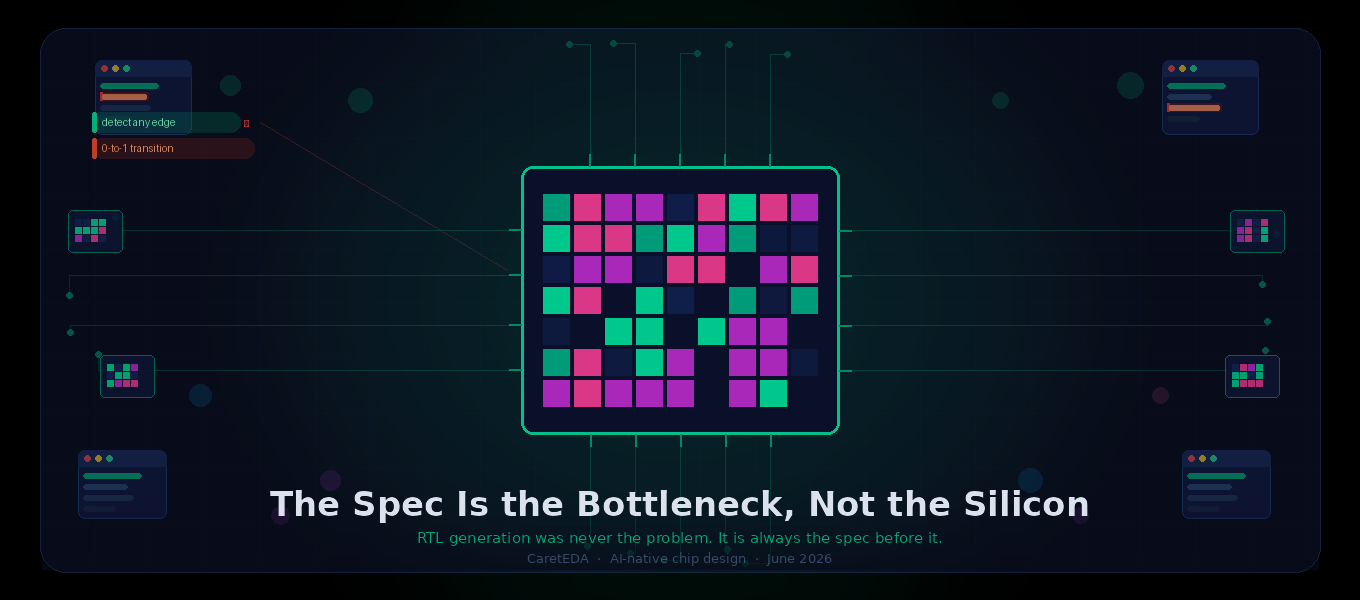
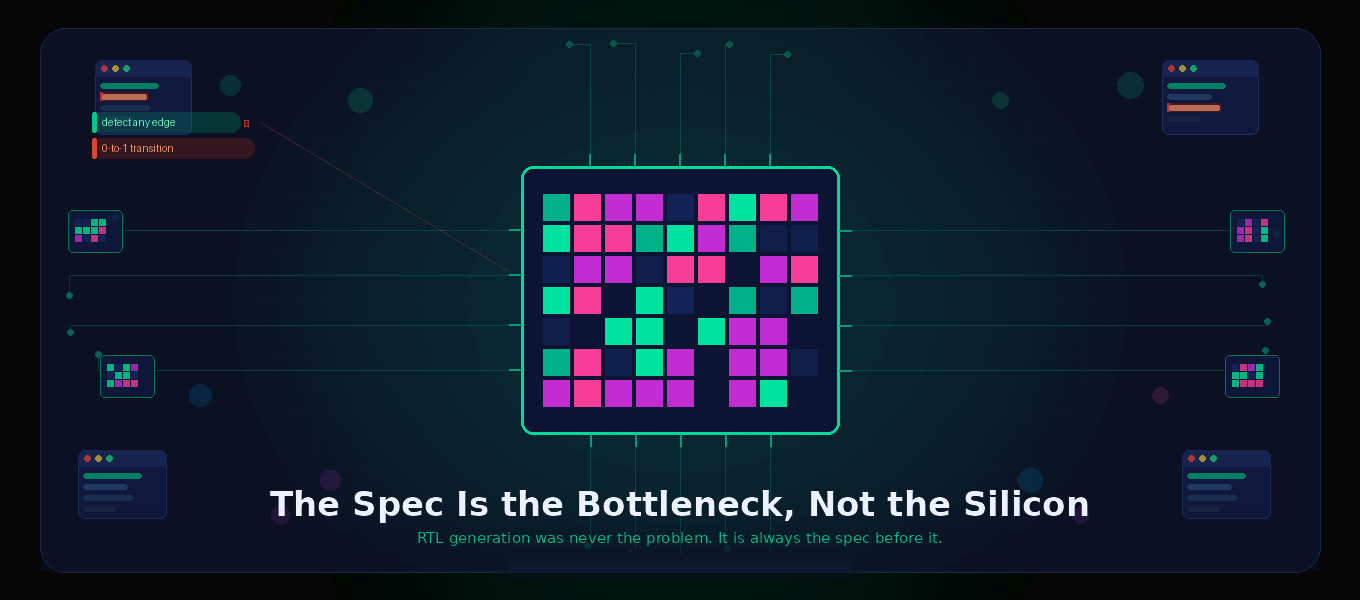
Update spec bottleneck blog details

Changed region(s): [[0.3706, 0.27, 0.6176, 0.69], [0.4015, 0.72, 0.6176, 0.75], [0.0618, 0.24, 0.0926, 0.27]]

diff --git a/src/app/blog/blog-detail.component.ts b/src/app/blog/blog-detail.component.ts
@@ -4,11 +4,13 @@ import { ActivatedRoute, RouterModule } from '@angular/router';
 import { CommonModule } from '@angular/common';
 
 interface ContentBlock {
-  type: 'p' | 'ul' | 'img' | 'html' | 'caption';
+  type: 'p' | 'ul' | 'img' | 'html' | 'caption' | 'ref';
   text?: string;
   items?: string[];
   src?: string;
   alt?: string;
+  href?: string;
+  linkText?: string;
 }
 
 interface Section {
@@ -94,6 +96,10 @@ interface BlogPost {
                   <img [src]="block.src" [alt]="block.alt || ''" class="w-full object-cover">
                 </div>
                 <p *ngIf="block.type === 'caption'" class="text-white/60 text-sm leading-relaxed italic -mt-2 mb-4">{{ block.text }}</p>
+                <p *ngIf="block.type === 'ref'" class="text-white/95 text-base leading-relaxed">
+                  <span>{{ block.text }}</span>
+                  <a *ngIf="block.href" [href]="block.href" target="_blank" rel="noopener noreferrer" class="text-[#60A5FA] underline underline-offset-2 break-all hover:text-white transition-colors">{{ block.linkText || block.href }}</a>
+                </p>
                 <p *ngIf="block.type === 'html'" class="text-white/95 text-base leading-relaxed" [innerHTML]="block.text"></p>
               </ng-container>
             </ng-container>
@@ -133,6 +139,7 @@ export class BlogDetailComponent implements OnInit {
       title: 'The Spec Is the Bottleneck, Not the Silicon',
       date: 'July 2026',
       readTime: '7 min read',
+      wordCount: '1,464 words',
       category: 'AI & Hardware Design',
       author: 'Sashi Obilisetty',
       authorRole: 'Co-founder & CEO, CaretEDA, Inc.',
@@ -198,12 +205,12 @@ export class BlogDetailComponent implements OnInit {
         {
           heading: 'References',
           blocks: [
-            { type: 'html', text: '[1] A Critical Review and Evaluation of LLMs for RTL Generation. <a href="https://www.researchgate.net/publication/400927513_A_Critical_Review_and_Evaluation_of_LLMs_for_RTL_Generation" target="_blank" rel="noopener noreferrer" style="color:#2563EB;text-decoration:none;">ResearchGate</a>' },
-            { type: 'html', text: '[2] Understanding and Mitigating Errors of LLM-Generated RTL Code. arXiv:2508.05266. <a href="https://arxiv.org/pdf/2508.05266" target="_blank" rel="noopener noreferrer" style="color:#2563EB;text-decoration:none;">PDF</a>' },
-            { type: 'html', text: '[3] Spec2RTL-Agent: Automated Hardware Code Generation from Complex Specifications Using LLM Agent Systems. arXiv:2506.13905. <a href="https://arxiv.org/pdf/2506.13905" target="_blank" rel="noopener noreferrer" style="color:#2563EB;text-decoration:none;">PDF</a>' },
-            { type: 'html', text: '[4] Proof2Silicon: Prompt Repair for Verified Code and Hardware Generation via Reinforcement Learning. arXiv:2509.06239. <a href="https://arxiv.org/pdf/2509.06239" target="_blank" rel="noopener noreferrer" style="color:#2563EB;text-decoration:none;">PDF</a>' },
-            { type: 'html', text: '[5] Cosler, M., Hahn, C., Mendoza, D., Schmitt, F., and Trippel, C. nl2spec: Interactively Translating Unstructured Natural Language to Temporal Logics with Large Language Models. CAV 2023, arXiv:2303.04864. <a href="https://arxiv.org/abs/2303.04864" target="_blank" rel="noopener noreferrer" style="color:#2563EB;text-decoration:none;">Abstract</a>' },
-            { type: 'html', text: '[6] SIGARCH Blog: Interactively Translating Unstructured Natural Language to Temporal Logics with nl2spec. <a href="https://www.sigarch.org/interactively-translating-unstructured-natural-language-to-temporal-logics-with-nl2spec/" target="_blank" rel="noopener noreferrer" style="color:#2563EB;text-decoration:none;">Article</a>' },
+            { type: 'ref', text: '[1] A Critical Review and Evaluation of LLMs for RTL Generation. ', href: 'https://www.researchgate.net/publication/400927513_A_Critical_Review_and_Evaluation_of_LLMs_for_RTL_Generation' },
+            { type: 'ref', text: '[2] Understanding and Mitigating Errors of LLM-Generated RTL Code. arXiv:2508.05266. ', href: 'https://arxiv.org/pdf/2508.05266' },
+            { type: 'ref', text: '[3] Spec2RTL-Agent: Automated Hardware Code Generation from Complex Specifications Using LLM Agent Systems. arXiv:2506.13905. ', href: 'https://arxiv.org/pdf/2506.13905' },
+            { type: 'ref', text: '[4] Proof2Silicon: Prompt Repair for Verified Code and Hardware Generation via Reinforcement Learning. arXiv:2509.06239. ', href: 'https://arxiv.org/pdf/2509.06239' },
+            { type: 'ref', text: '[5] Cosler, M., Hahn, C., Mendoza, D., Schmitt, F., and Trippel, C. nl2spec: Interactively Translating Unstructured Natural Language to Temporal Logics with Large Language Models. CAV 2023, arXiv:2303.04864. ', href: 'https://arxiv.org/abs/2303.04864' },
+            { type: 'ref', text: '[6] SIGARCH Blog: Interactively Translating Unstructured Natural Language to Temporal Logics with nl2spec. ', href: 'https://www.sigarch.org/interactively-translating-unstructured-natural-language-to-temporal-logics-with-nl2spec/' },
           ]
         },
       ]
@@ -430,6 +437,7 @@ export class BlogDetailComponent implements OnInit {
       subtitle: 'Rising Chip Design Complexity, Shrinking Tapeout Cycles, and the AI Transformation of System Design',
       date: 'March 2026',
       readTime: '5 min read',
+      wordCount: '1,000 words',
       category: 'Industry & Strategy',
       author: 'Sashi Obilisetty',
       authorRole: 'Co-founder & CEO, CaretEDA',